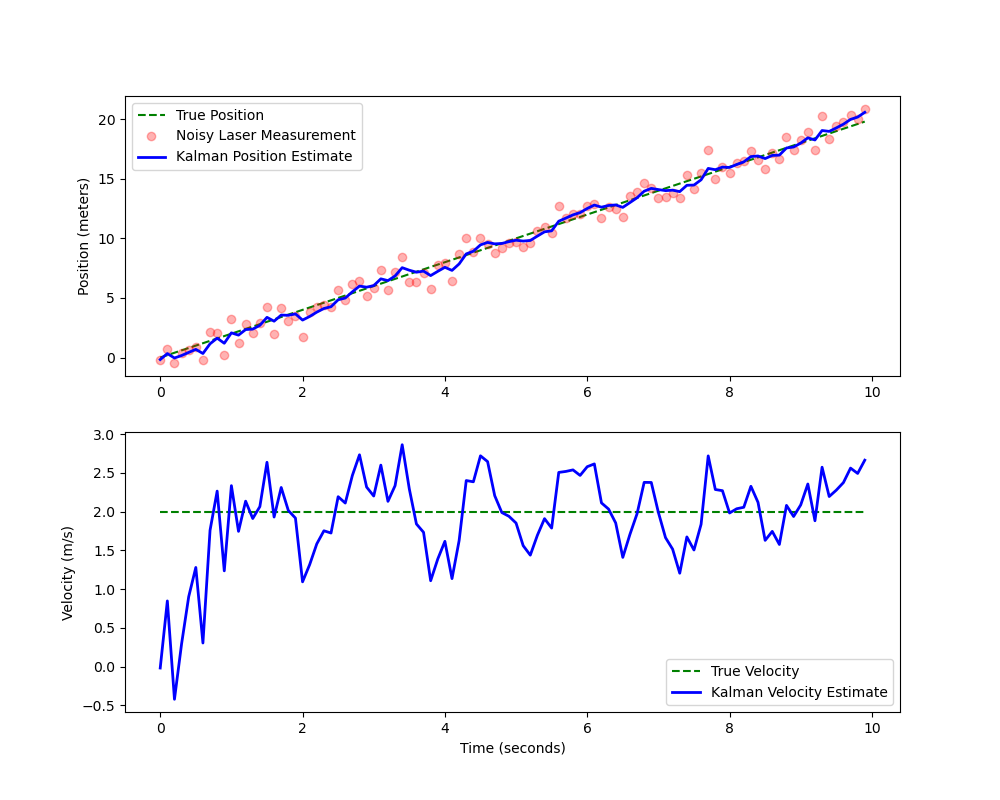
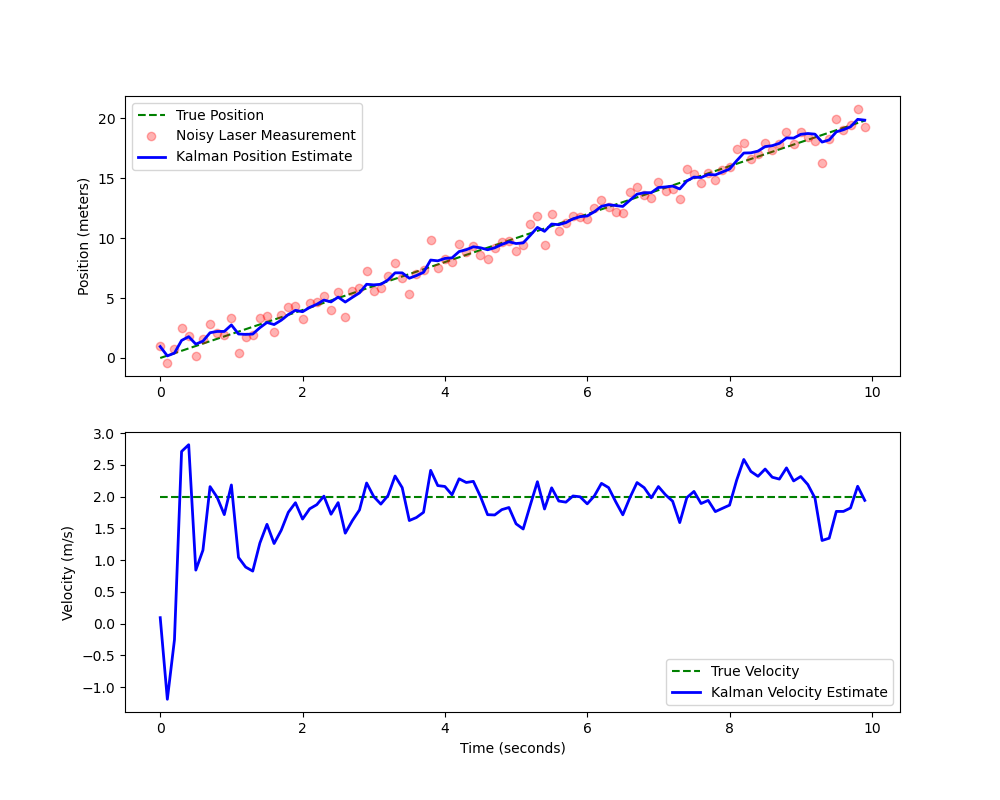
Re-checking

diff --git a/01_Sensors_and_Perception/Assignments_and_Code/kalman_2d.py b/01_Sensors_and_Perception/Assignments_and_Code/kalman_2d.py
@@ -29,7 +29,7 @@ R = np.array([[sensor_variance]])
 # Old_Q ([0.01, 0],[0.0, 0.01])
 
 Q = np.array([[0.05, 0.0],
-              [0.05, 0.05]])
+              [0.0, 0.05]])
 
 I = np.eye(2)
 
